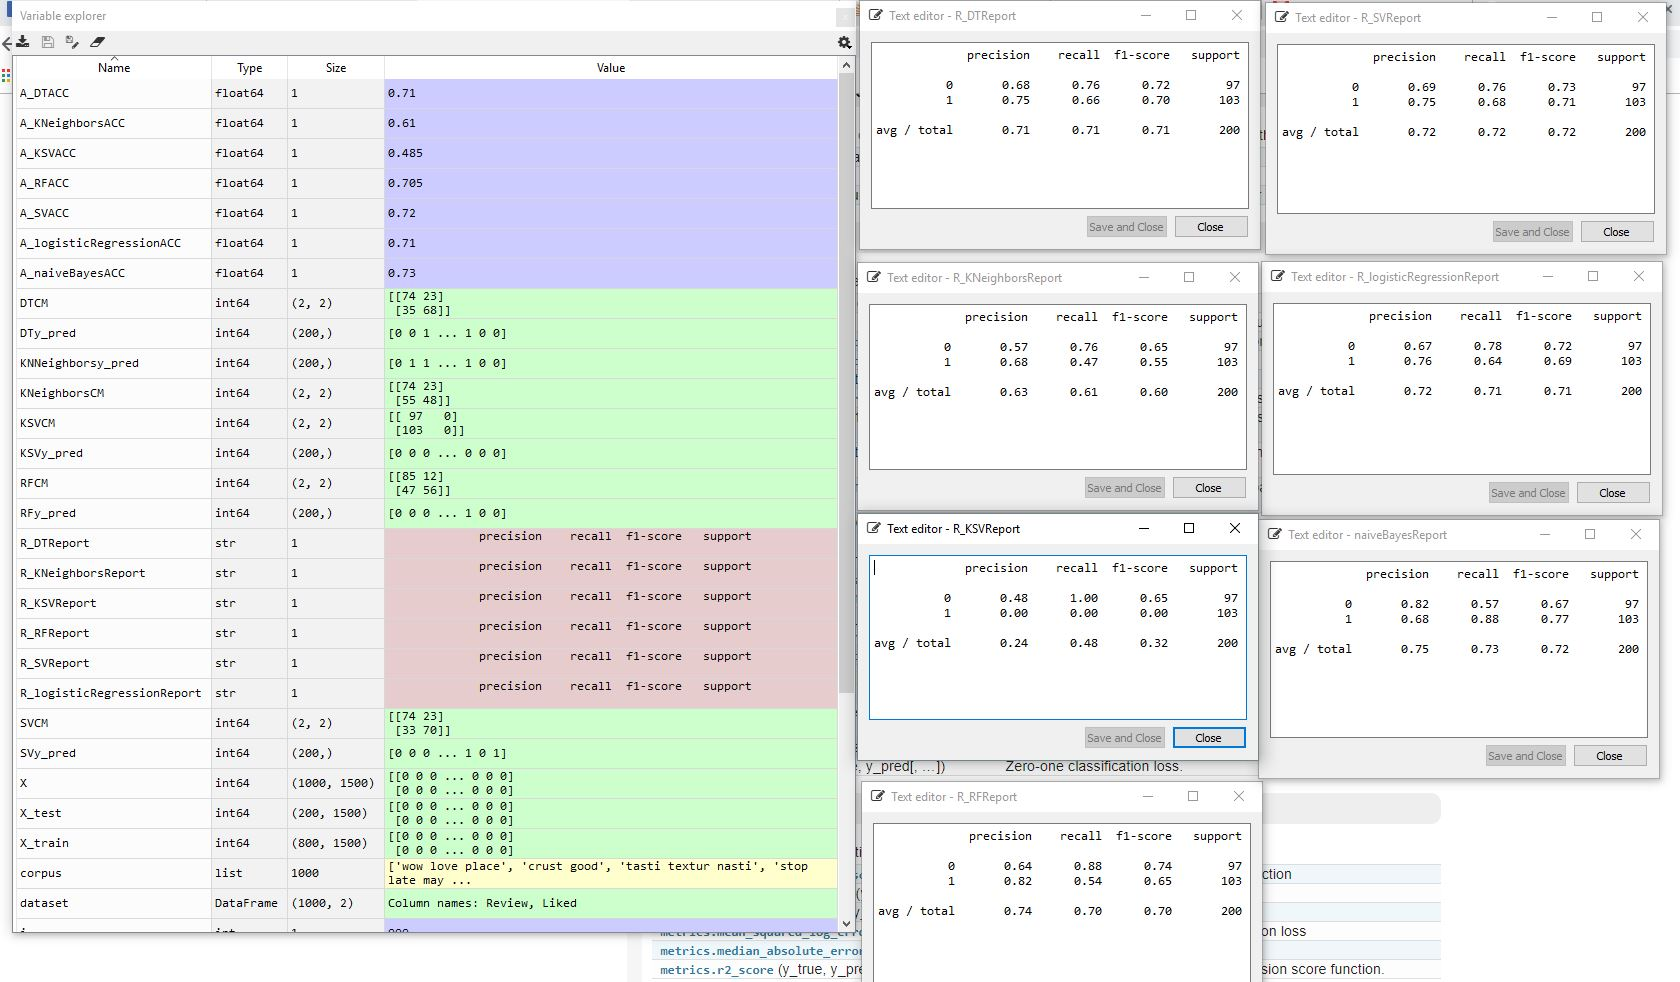
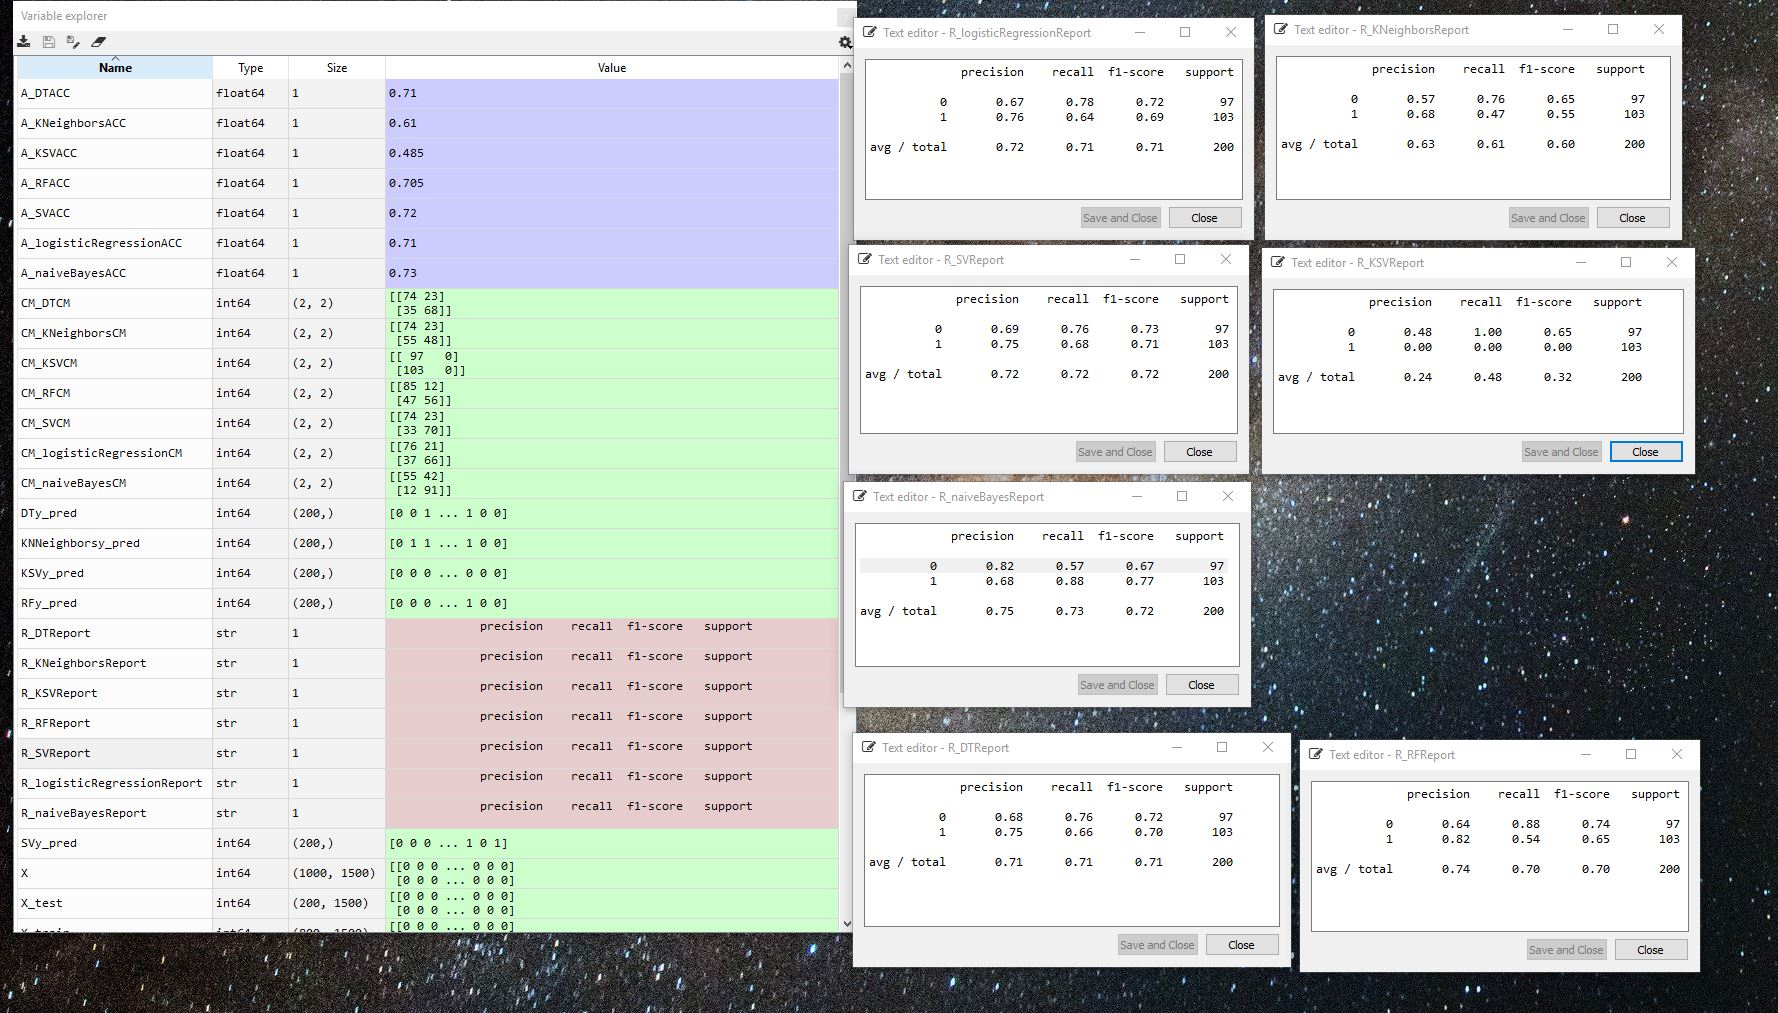
small refactor

diff --git a/natural_language_processing.py b/natural_language_processing.py
@@ -42,7 +42,7 @@ X_train, X_test, y_train, y_test = train_test_split(X, y, test_size = 0.20, rand
 naiveBayesClassifier = GaussianNB()
 naiveBayesClassifier.fit(X_train, y_train)
 naiveBayesy_pred = naiveBayesClassifier.predict(X_test)
-naiveBayesCM = confusion_matrix(y_test, naiveBayesy_pred)
+CM_naiveBayesCM = confusion_matrix(y_test, naiveBayesy_pred)
 A_naiveBayesACC = accuracy_score(y_test, naiveBayesy_pred)
 R_naiveBayesReport = classification_report(y_test, naiveBayesy_pred)
 
@@ -50,7 +50,7 @@ R_naiveBayesReport = classification_report(y_test, naiveBayesy_pred)
 logisticRegressionClassifier = LogisticRegression(random_state = 0)
 logisticRegressionClassifier.fit(X_train, y_train)
 logisticRegressiony_pred = logisticRegressionClassifier.predict(X_test)
-logisticRegressionCM = confusion_matrix(y_test, logisticRegressiony_pred)
+CM_logisticRegressionCM = confusion_matrix(y_test, logisticRegressiony_pred)
 A_logisticRegressionACC = accuracy_score(y_test, logisticRegressiony_pred)
 R_logisticRegressionReport = classification_report(y_test, logisticRegressiony_pred)
 
@@ -58,7 +58,7 @@ R_logisticRegressionReport = classification_report(y_test, logisticRegressiony_p
 KNNeighborsClassifier = KNeighborsClassifier(n_neighbors = 5, metric = 'minkowski', p = 2)
 KNNeighborsClassifier.fit(X_train, y_train)
 KNNeighborsy_pred = KNNeighborsClassifier.predict(X_test)
-KNeighborsCM = confusion_matrix(y_test, KNNeighborsy_pred)
+CM_KNeighborsCM = confusion_matrix(y_test, KNNeighborsy_pred)
 A_KNeighborsACC = accuracy_score(y_test, KNNeighborsy_pred)
 R_KNeighborsReport = classification_report(y_test, KNNeighborsy_pred)
 
@@ -66,7 +66,7 @@ R_KNeighborsReport = classification_report(y_test, KNNeighborsy_pred)
 SVclassifier = SVC(kernel = 'linear', random_state = 0)
 SVclassifier.fit(X_train, y_train)
 SVy_pred = SVclassifier.predict(X_test)
-SVCM = confusion_matrix(y_test, SVy_pred)
+CM_SVCM = confusion_matrix(y_test, SVy_pred)
 A_SVACC = accuracy_score(y_test, SVy_pred)
 R_SVReport = classification_report(y_test, SVy_pred)
 
@@ -74,7 +74,7 @@ R_SVReport = classification_report(y_test, SVy_pred)
 KSVclassifier = SVC(kernel = 'rbf', random_state = 0)
 KSVclassifier.fit(X_train, y_train)
 KSVy_pred = KSVclassifier.predict(X_test)
-KSVCM = confusion_matrix(y_test, KSVy_pred)
+CM_KSVCM = confusion_matrix(y_test, KSVy_pred)
 A_KSVACC = accuracy_score(y_test, KSVy_pred)
 R_KSVReport = classification_report(y_test, KSVy_pred)
 
@@ -82,7 +82,7 @@ R_KSVReport = classification_report(y_test, KSVy_pred)
 DTclassifier = DecisionTreeClassifier(criterion = 'entropy', random_state = 0)
 DTclassifier.fit(X_train, y_train)
 DTy_pred = DTclassifier.predict(X_test)
-DTCM = confusion_matrix(y_test, DTy_pred)
+CM_DTCM = confusion_matrix(y_test, DTy_pred)
 A_DTACC = accuracy_score(y_test, DTy_pred)
 R_DTReport = classification_report(y_test, DTy_pred)
 
@@ -90,6 +90,6 @@ R_DTReport = classification_report(y_test, DTy_pred)
 RFclassifier = RandomForestClassifier(n_estimators = 100, criterion = 'entropy', random_state = 0)
 RFclassifier.fit(X_train, y_train)
 RFy_pred = RFclassifier.predict(X_test)
-RFCM = confusion_matrix(y_test, RFy_pred)
+CM_RFCM = confusion_matrix(y_test, RFy_pred)
 A_RFACC = accuracy_score(y_test, RFy_pred)
 R_RFReport = classification_report(y_test, RFy_pred)
